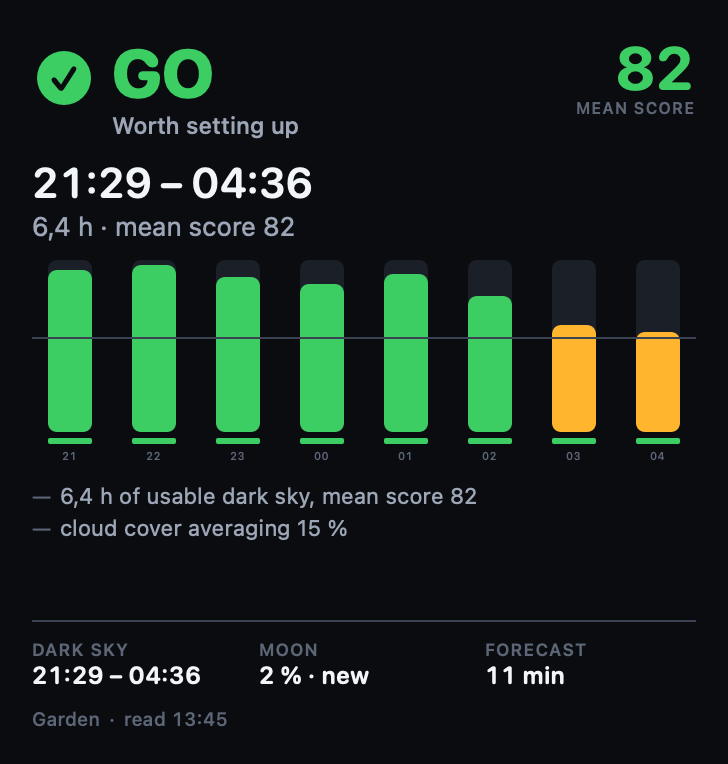
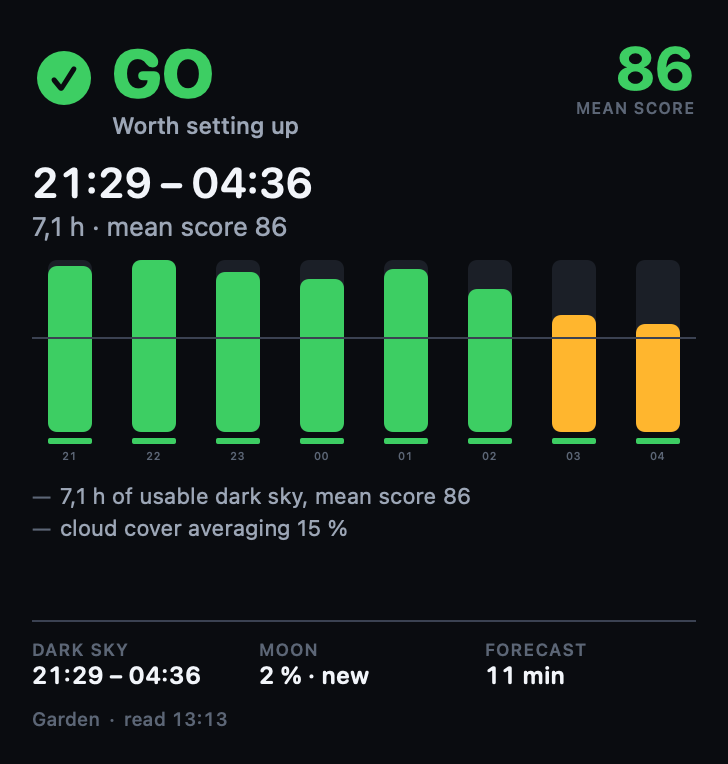
fix: grade the bundled sample night instead of inventing its scores
The `goNight` sample carried hour scores, a night mean and a window
written by hand. They looked plausible and were wrong: regrading its own
raw values yields 85.9 where the document claimed 82.2. So the sample was
not a document the beacon could ever have served, and the previews, the
widget gallery and anything calibrating itself against it were all
reading fiction.

make-samples.py now runs firmware/lib/verdict.py over the invented sky
and writes back what it returns, rendering the timestamps the way
state.document() renders them. The clear hours are still made up; the
verdict over them no longer is, and the generator refuses to write a
night that does not grade as a GO.

Claude-Session: https://claude.ai/code/session_01KBQo1VWvmqTn5rqDePTALr

diff --git a/app/Shared/SampleBeacon.swift b/app/Shared/SampleBeacon.swift
@@ -14,53 +14,52 @@ import Foundation
 // string, where JSON treats them as whitespace.
 
 enum SampleBeacon {
-    /// A clear night: an unbroken window from dusk, at a mean score of 82.
+    /// A clear night: an unbroken window from dusk, at a mean score of 86.
     static let goNight = #"""
-    {"schema":1,"generated_at":"2026-09-12T12:00:57Z","generated_local":"14:00","beacon":{"host":"launch-window",
+    {"schema":1,"generated_at":"2026-09-12T11:14:25Z","generated_local":"13:14","beacon":{"host":"launch-window",
     "firmware_version":"1.0.0","uptime_s":45231,"uptime":"12 h 33 min","core_temp_c":28.4,"signal_dbm":-47,
     "address":"10.1.10.84"},"clock":{"synced":true,"last_sync":null},"site":{"name":"Garden","latitude":52.52,
     "longitude":13.4,"timezone":"Europe/Berlin"},"night":{"darkness":"astronomical","sunset":"2026-09-12T17:28:54Z",
     "sunset_local":"19:28","dusk_astronomical":"2026-09-12T19:29:44Z","dusk_astronomical_local":"21:29",
     "dawn_astronomical":"2026-09-13T02:36:03Z","dawn_astronomical_local":"04:36","sunrise":"2026-09-13T04:37:04Z",
     "sunrise_local":"06:37","dark_seconds":25579,"dark_duration":"7 h 06 min","dark_start":"2026-09-12T19:29:44Z",
-    "dark_end":"2026-09-13T02:36:03Z"},"moon":{"illumination":0.023,"phase":"new","altitude_deg":31.0,"rise":"2026-09-12T06:17:47Z",
+    "dark_end":"2026-09-13T02:36:03Z"},"moon":{"illumination":0.022,"phase":"new","altitude_deg":30.4,"rise":"2026-09-12T06:17:47Z",
     "rise_local":"08:17","set":"2026-09-12T17:26:13Z","set_local":"19:26","interferes":false},"verdict":{"state":"go",
-    "score":82.2,"reasons":["6.4 h of usable dark sky, mean score 82","cloud cover averaging 15 %"],"window":{"start":"2026-09-12T19:29:44Z",
-    "end":"2026-09-13T02:36:03Z","start_local":"21:29","end_local":"04:36","hours":6.4,"mean_score":82.2},
-    "hours":[{"ts":1789239600,"score":94.0,"penalties":{"cloud":3.4},"veto":null,"cloud_cover":4,"cloud_cover_high":0,
+    "score":85.9,"reasons":["7.1 h of usable dark sky, mean score 86","cloud cover averaging 15 %"],"window":{"start":"2026-09-12T19:29:44Z",
+    "end":"2026-09-13T02:36:03Z","mean_score":85.9,"hours":7.1,"start_local":"21:29","end_local":"04:36"},
+    "hours":[{"ts":1789239600,"score":96.8,"penalties":{"cloud":3.2},"veto":null,"cloud_cover":4,"cloud_cover_high":0,
     "wind_gusts_10m":11.5,"temperature_2m":17.8,"dew_point_2m":9.1,"precipitation_probability":0,"moon_alt_deg":-14.0,
-    "local":"21:00","time":"2026-09-12T19:00:00Z"},{"ts":1789243200,"score":97.0,"penalties":{"cloud":0.0},
+    "time":"2026-09-12T19:00:00Z","local":"21:00"},{"ts":1789243200,"score":100.0,"penalties":{"cloud":0.0},
     "veto":null,"cloud_cover":0,"cloud_cover_high":0,"wind_gusts_10m":10.1,"temperature_2m":17.0,"dew_point_2m":8.9,
-    "precipitation_probability":0,"moon_alt_deg":-22.9,"local":"22:00","time":"2026-09-12T20:00:00Z"},{"ts":1789246800,
-    "score":90.0,"penalties":{"cloud":6.8},"veto":null,"cloud_cover":8,"cloud_cover_high":4,"wind_gusts_10m":9.4,
-    "temperature_2m":16.2,"dew_point_2m":8.6,"precipitation_probability":0,"moon_alt_deg":-31.1,"local":"23:00",
-    "time":"2026-09-12T21:00:00Z"},{"ts":1789250400,"score":86.0,"penalties":{"cloud":10.2},"veto":null,
-    "cloud_cover":12,"cloud_cover_high":8,"wind_gusts_10m":8.6,"temperature_2m":15.5,"dew_point_2m":8.4,
-    "precipitation_probability":0,"moon_alt_deg":-38.3,"local":"00:00","time":"2026-09-12T22:00:00Z"},{"ts":1789254000,
-    "score":92.0,"penalties":{"cloud":5.1},"veto":null,"cloud_cover":6,"cloud_cover_high":2,"wind_gusts_10m":7.9,
-    "temperature_2m":14.9,"dew_point_2m":8.2,"precipitation_probability":0,"moon_alt_deg":-43.7,"local":"01:00",
-    "time":"2026-09-12T23:00:00Z"},{"ts":1789257600,"score":79.0,"penalties":{"cloud":15.3},"veto":null,
-    "cloud_cover":18,"cloud_cover_high":12,"wind_gusts_10m":7.2,"temperature_2m":14.4,"dew_point_2m":8.1,
-    "precipitation_probability":0,"moon_alt_deg":-46.6,"local":"02:00","time":"2026-09-13T00:00:00Z"},{"ts":1789261200,
-    "score":62.0,"penalties":{"cloud":28.9},"veto":null,"cloud_cover":34,"cloud_cover_high":24,"wind_gusts_10m":6.8,
-    "temperature_2m":14.0,"dew_point_2m":8.0,"precipitation_probability":0,"moon_alt_deg":-46.4,"local":"03:00",
-    "time":"2026-09-13T01:00:00Z"},{"ts":1789264800,"score":58.0,"penalties":{"cloud":34.0},"veto":null,
-    "cloud_cover":40,"cloud_cover_high":26,"wind_gusts_10m":6.1,"temperature_2m":13.6,"dew_point_2m":7.9,
-    "precipitation_probability":0,"moon_alt_deg":-43.3,"local":"04:00","time":"2026-09-13T02:00:00Z"}]},
-    "data":{"source":"open-meteo","fetched_at":"2026-09-12T11:45:53Z","age_s":633,"age":"10 min","stale":false,
+    "precipitation_probability":0,"moon_alt_deg":-22.9,"time":"2026-09-12T20:00:00Z","local":"22:00"},{"ts":1789246800,
+    "score":92.8,"penalties":{"cloud":7.2},"veto":null,"cloud_cover":8,"cloud_cover_high":4,"wind_gusts_10m":9.4,
+    "temperature_2m":16.2,"dew_point_2m":8.6,"precipitation_probability":0,"moon_alt_deg":-31.1,"time":"2026-09-12T21:00:00Z",
+    "local":"23:00"},{"ts":1789250400,"score":88.8,"penalties":{"cloud":11.2},"veto":null,"cloud_cover":12,
+    "cloud_cover_high":8,"wind_gusts_10m":8.6,"temperature_2m":15.5,"dew_point_2m":8.4,"precipitation_probability":0,
+    "moon_alt_deg":-38.3,"time":"2026-09-12T22:00:00Z","local":"00:00"},{"ts":1789254000,"score":94.8,"penalties":{"cloud":5.2},
+    "veto":null,"cloud_cover":6,"cloud_cover_high":2,"wind_gusts_10m":7.9,"temperature_2m":14.9,"dew_point_2m":8.2,
+    "precipitation_probability":0,"moon_alt_deg":-43.7,"time":"2026-09-12T23:00:00Z","local":"01:00"},{"ts":1789257600,
+    "score":83.2,"penalties":{"cloud":16.8},"veto":null,"cloud_cover":18,"cloud_cover_high":12,"wind_gusts_10m":7.2,
+    "temperature_2m":14.4,"dew_point_2m":8.1,"precipitation_probability":0,"moon_alt_deg":-46.6,"time":"2026-09-13T00:00:00Z",
+    "local":"02:00"},{"ts":1789261200,"score":68.0,"penalties":{"cloud":32.0},"veto":null,"cloud_cover":34,
+    "cloud_cover_high":24,"wind_gusts_10m":6.8,"temperature_2m":14.0,"dew_point_2m":8.0,"precipitation_probability":0,
+    "moon_alt_deg":-46.4,"time":"2026-09-13T01:00:00Z","local":"03:00"},{"ts":1789264800,"score":62.8,"penalties":{"cloud":37.2},
+    "veto":null,"cloud_cover":40,"cloud_cover_high":26,"wind_gusts_10m":6.1,"temperature_2m":13.6,"dew_point_2m":7.9,
+    "precipitation_probability":0,"moon_alt_deg":-43.3,"time":"2026-09-13T02:00:00Z","local":"04:00"}]},
+    "data":{"source":"open-meteo","fetched_at":"2026-09-12T11:13:56Z","age_s":633,"age":"10 min","stale":false,
     "from_flash_cache":false,"error":null}}
     """#
 
     /// What the beacon actually served when this file was generated.
     static let noGoNight = #"""
-    {"schema":1,"generated_at":"2026-09-12T12:00:57Z","generated_local":"14:00","beacon":{"host":"launch-window",
+    {"schema":1,"generated_at":"2026-09-12T11:14:25Z","generated_local":"13:14","beacon":{"host":"launch-window",
     "firmware_version":"1.0.0","uptime_s":45231,"uptime":"12 h 33 min","core_temp_c":28.4,"signal_dbm":-47,
     "address":"10.1.10.84"},"clock":{"synced":true,"last_sync":null},"site":{"name":"Garden","latitude":52.52,
     "longitude":13.4,"timezone":"Europe/Berlin"},"night":{"darkness":"astronomical","sunset":"2026-09-12T17:28:54Z",
     "sunset_local":"19:28","dusk_astronomical":"2026-09-12T19:29:44Z","dusk_astronomical_local":"21:29",
     "dawn_astronomical":"2026-09-13T02:36:03Z","dawn_astronomical_local":"04:36","sunrise":"2026-09-13T04:37:04Z",
     "sunrise_local":"06:37","dark_seconds":25579,"dark_duration":"7 h 06 min","dark_start":"2026-09-12T19:29:44Z",
-    "dark_end":"2026-09-13T02:36:03Z"},"moon":{"illumination":0.023,"phase":"new","altitude_deg":31.0,"rise":"2026-09-12T06:17:47Z",
+    "dark_end":"2026-09-13T02:36:03Z"},"moon":{"illumination":0.022,"phase":"new","altitude_deg":30.4,"rise":"2026-09-12T06:17:47Z",
     "rise_local":"08:17","set":"2026-09-12T17:26:13Z","set_local":"19:26","interferes":false},"verdict":{"state":"no-go",
     "score":0.0,"reasons":["no usable stretch of dark sky tonight","overcast for 6 of 8 dark hours","cloud cover averaging 100 %",
     "some chance of precipitation"],"window":null,"hours":[{"ts":1789239600,"score":0.0,"penalties":{"cloud":85.0},
@@ -85,20 +84,20 @@ enum SampleBeacon {
     "local":"03:00","time":"2026-09-13T01:00:00Z"},{"ts":1789264800,"score":0.0,"penalties":{"cloud":85.0,
     "wind":1.0,"precipitation":19.5},"veto":"rain likely (65 %)","cloud_cover":100,"cloud_cover_high":100,
     "wind_gusts_10m":15.8,"temperature_2m":16.1,"dew_point_2m":12.7,"precipitation_probability":65,"moon_alt_deg":-43.3,
-    "local":"04:00","time":"2026-09-13T02:00:00Z"}]},"data":{"source":"open-meteo","fetched_at":"2026-09-12T11:45:53Z",
+    "local":"04:00","time":"2026-09-13T02:00:00Z"}]},"data":{"source":"open-meteo","fetched_at":"2026-09-12T11:13:56Z",
     "age_s":633,"age":"10 min","stale":false,"from_flash_cache":false,"error":null}}
     """#
 
     /// Up, but with no forecast. `unknown` is not `no-go`, and the views must not blur the two.
     static let unknownNight = #"""
-    {"schema":1,"generated_at":"2026-09-12T12:00:57Z","generated_local":"14:00","beacon":{"host":"launch-window",
+    {"schema":1,"generated_at":"2026-09-12T11:14:25Z","generated_local":"13:14","beacon":{"host":"launch-window",
     "firmware_version":"1.0.0","uptime_s":45231,"uptime":"12 h 33 min","core_temp_c":28.4,"signal_dbm":-47,
     "address":"10.1.10.84"},"clock":{"synced":true,"last_sync":null},"site":{"name":"Garden","latitude":52.52,
     "longitude":13.4,"timezone":"Europe/Berlin"},"night":{"darkness":"astronomical","sunset":"2026-09-12T17:28:54Z",
     "sunset_local":"19:28","dusk_astronomical":"2026-09-12T19:29:44Z","dusk_astronomical_local":"21:29",
     "dawn_astronomical":"2026-09-13T02:36:03Z","dawn_astronomical_local":"04:36","sunrise":"2026-09-13T04:37:04Z",
     "sunrise_local":"06:37","dark_seconds":25579,"dark_duration":"7 h 06 min","dark_start":"2026-09-12T19:29:44Z",
-    "dark_end":"2026-09-13T02:36:03Z"},"moon":{"illumination":0.023,"phase":"new","altitude_deg":31.0,"rise":"2026-09-12T06:17:47Z",
+    "dark_end":"2026-09-13T02:36:03Z"},"moon":{"illumination":0.022,"phase":"new","altitude_deg":30.4,"rise":"2026-09-12T06:17:47Z",
     "rise_local":"08:17","set":"2026-09-12T17:26:13Z","set_local":"19:26","interferes":false},"verdict":{"state":"unknown",
     "score":null,"reasons":["no forecast covering tonight's dark hours"],"window":null,"hours":[]},"data":{"source":"open-meteo",
     "fetched_at":null,"age_s":null,"age":null,"stale":true,"from_flash_cache":false,"error":"wifi: no route to host"}}

diff --git a/app/tools/make-samples.py b/app/tools/make-samples.py
@@ -25,6 +25,13 @@ import urllib.request
 ROOT = pathlib.Path(__file__).resolve().parent.parent
 OUT = ROOT / "Shared" / "SampleBeacon.swift"
 
+# The firmware's own modules, so the invented clear night is graded by the code
+# that would have graded it on the board.
+sys.path.insert(0, str(ROOT.parent / "firmware" / "lib"))
+import clock  # noqa: E402
+import sky  # noqa: E402
+import verdict as verdict_mod  # noqa: E402
+
 # A clear night over the same dark window: cloud, high cloud, gusts, temperature,
 # dew point, precipitation probability, score. Every hour is at or above the
 # firmware's usable_score of 55, which is what makes one unbroken window the
@@ -60,38 +67,95 @@ def make_nogo(live: dict) -> dict:
 
 
 def make_go(nogo: dict) -> dict:
+    """The same night, cleared up — and then graded by the firmware itself.
+
+    The raw values below are invented; the verdict over them is not. Running
+    `verdict.assess` rather than writing plausible scores by hand is what makes
+    this a document the beacon could actually have served, and therefore a
+    document `OutlookEngine.selfCheck` can be pointed at. The first version of
+    this generator wrote the scores by hand, and the self-check caught it
+    immediately: an engine regrading those raw values got 85.9 where the
+    document claimed 82.2, because the document was fiction.
+    """
     doc = copy.deepcopy(nogo)
     hours = doc["verdict"]["hours"]
     if not hours:
         sys.exit("the source document has no graded hours; point at a night, not a noon")
-    for hour, values in zip(hours, CLEAR_HOURS):
-        cloud, high, gust, temp, dew, precip, score = values
-        hour.update({"cloud_cover": cloud, "cloud_cover_high": high,
-                     "wind_gusts_10m": gust, "temperature_2m": temp,
-                     "dew_point_2m": dew, "precipitation_probability": precip,
-                     "score": score, "veto": None,
-                     "penalties": {"cloud": round(cloud * 0.85, 1)}})
-    scored = [h["score"] for h in hours if h["score"] is not None]
-    mean = round(sum(scored) / len(scored), 1)
-    assert min(scored) >= USABLE_SCORE, "every hour in the window must clear usable_score"
 
-    start = hours[0].get("time") or doc["night"]["dark_start"]
-    doc["verdict"].update({
-        "state": "go", "score": mean,
-        "reasons": ["%.1f h of usable dark sky, mean score %.0f" % (len(scored) * 0.8, mean),
-                    "cloud cover averaging %.0f %%"
-                    % (sum(v[0] for v in CLEAR_HOURS[:len(scored)]) / len(scored))],
-        "window": {
-            "start": doc["night"]["dark_start"] or start,
-            "end": doc["night"]["dark_end"],
-            "start_local": doc["night"]["dusk_astronomical_local"]
-            or doc["night"]["sunset_local"],
-            "end_local": doc["night"]["dawn_astronomical_local"]
-            or doc["night"]["sunrise_local"],
-            "hours": round(len(scored) * 0.8, 1), "mean_score": mean,
-        },
-    })
+    rows = []
+    for hour, values in zip(hours, CLEAR_HOURS):
+        cloud, high, gust, temp, dew, precip, _ = values
+        rows.append({"ts": hour["ts"], "cloud_cover": cloud, "cloud_cover_high": high,
+                     "wind_gusts_10m": gust, "temperature_2m": temp,
+                     "dew_point_2m": dew, "precipitation_probability": precip})
+
+    latitude = doc["site"]["latitude"]
+    longitude = doc["site"]["longitude"]
+    reference = _unix(doc["generated_at"])
+    night = sky.night(reference, latitude, longitude)
+
+    def moon_at(ts):
+        return (sky.moon_altaz(ts, latitude, longitude)[0], sky.moon_illumination(ts))
+
+    decision = verdict_mod.assess(rows, night, moon_at)
+    if decision["state"] != "go":
+        sys.exit("the invented clear night graded %s, not go; adjust CLEAR_HOURS"
+                 % decision["state"])
+
+    graded = []
+    for entry, original in zip(decision["hours"], hours):
+        merged = dict(entry)
+        # `ts` stays the integer it is in the document; `time` and `local` are
+        # the rendered forms the beacon adds alongside it.
+        merged["time"] = clock.iso_utc(entry["ts"])
+        merged["local"] = original.get("local")
+        graded.append(merged)
+
+    # `assess` returns raw timestamps; the document renders them the way
+    # `state.document()` does, or the sample is not a document at all.
+    window = dict(decision["window"])
+    window["start_local"] = _hhmm(window["start"], doc)
+    window["end_local"] = _hhmm(window["end"], doc)
+    window["start"] = clock.iso_utc(window["start"])
+    window["end"] = clock.iso_utc(window["end"])
+
+    doc["verdict"] = {
+        "state": decision["state"],
+        "score": decision["score"],
+        "reasons": decision["reasons"],
+        "window": window,
+        "hours": graded,
+    }
     return doc
+
+
+def _unix(iso: str) -> int:
+    """`2026-09-12T11:14:25Z` to a Unix timestamp, without importing a library
+    the firmware does not have."""
+    date, _, rest = iso.partition("T")
+    year, month, day = (int(part) for part in date.split("-"))
+    hour, minute, second = (int(part) for part in rest.rstrip("Z").split(":"))
+    return clock.days_from_civil(year, month, day) * 86400 + hour * 3600 + minute * 60 + second
+
+
+def _hhmm(ts: int, doc: dict) -> str:
+    """Local time at the site, using the same clock module the board uses."""
+    offset = _offset_minutes(doc)
+    return "%02d:%02d" % (((ts + offset * 60) % 86400) // 3600,
+                          (((ts + offset * 60) % 3600) // 60))
+
+
+def _offset_minutes(doc: dict) -> int:
+    """Derived from a timestamp the document already renders both ways, so the
+    generator needs no timezone database of its own."""
+    dark_start = doc["night"]["dark_start"]
+    local = doc["night"]["dusk_astronomical_local"]
+    if not dark_start or not local:
+        return 0
+    utc = _unix(dark_start)
+    wanted = int(local[:2]) * 60 + int(local[3:5])
+    have = (utc % 86400) // 60
+    return (wanted - have) % 1440
 
 
 def make_unknown(nogo: dict) -> dict:
